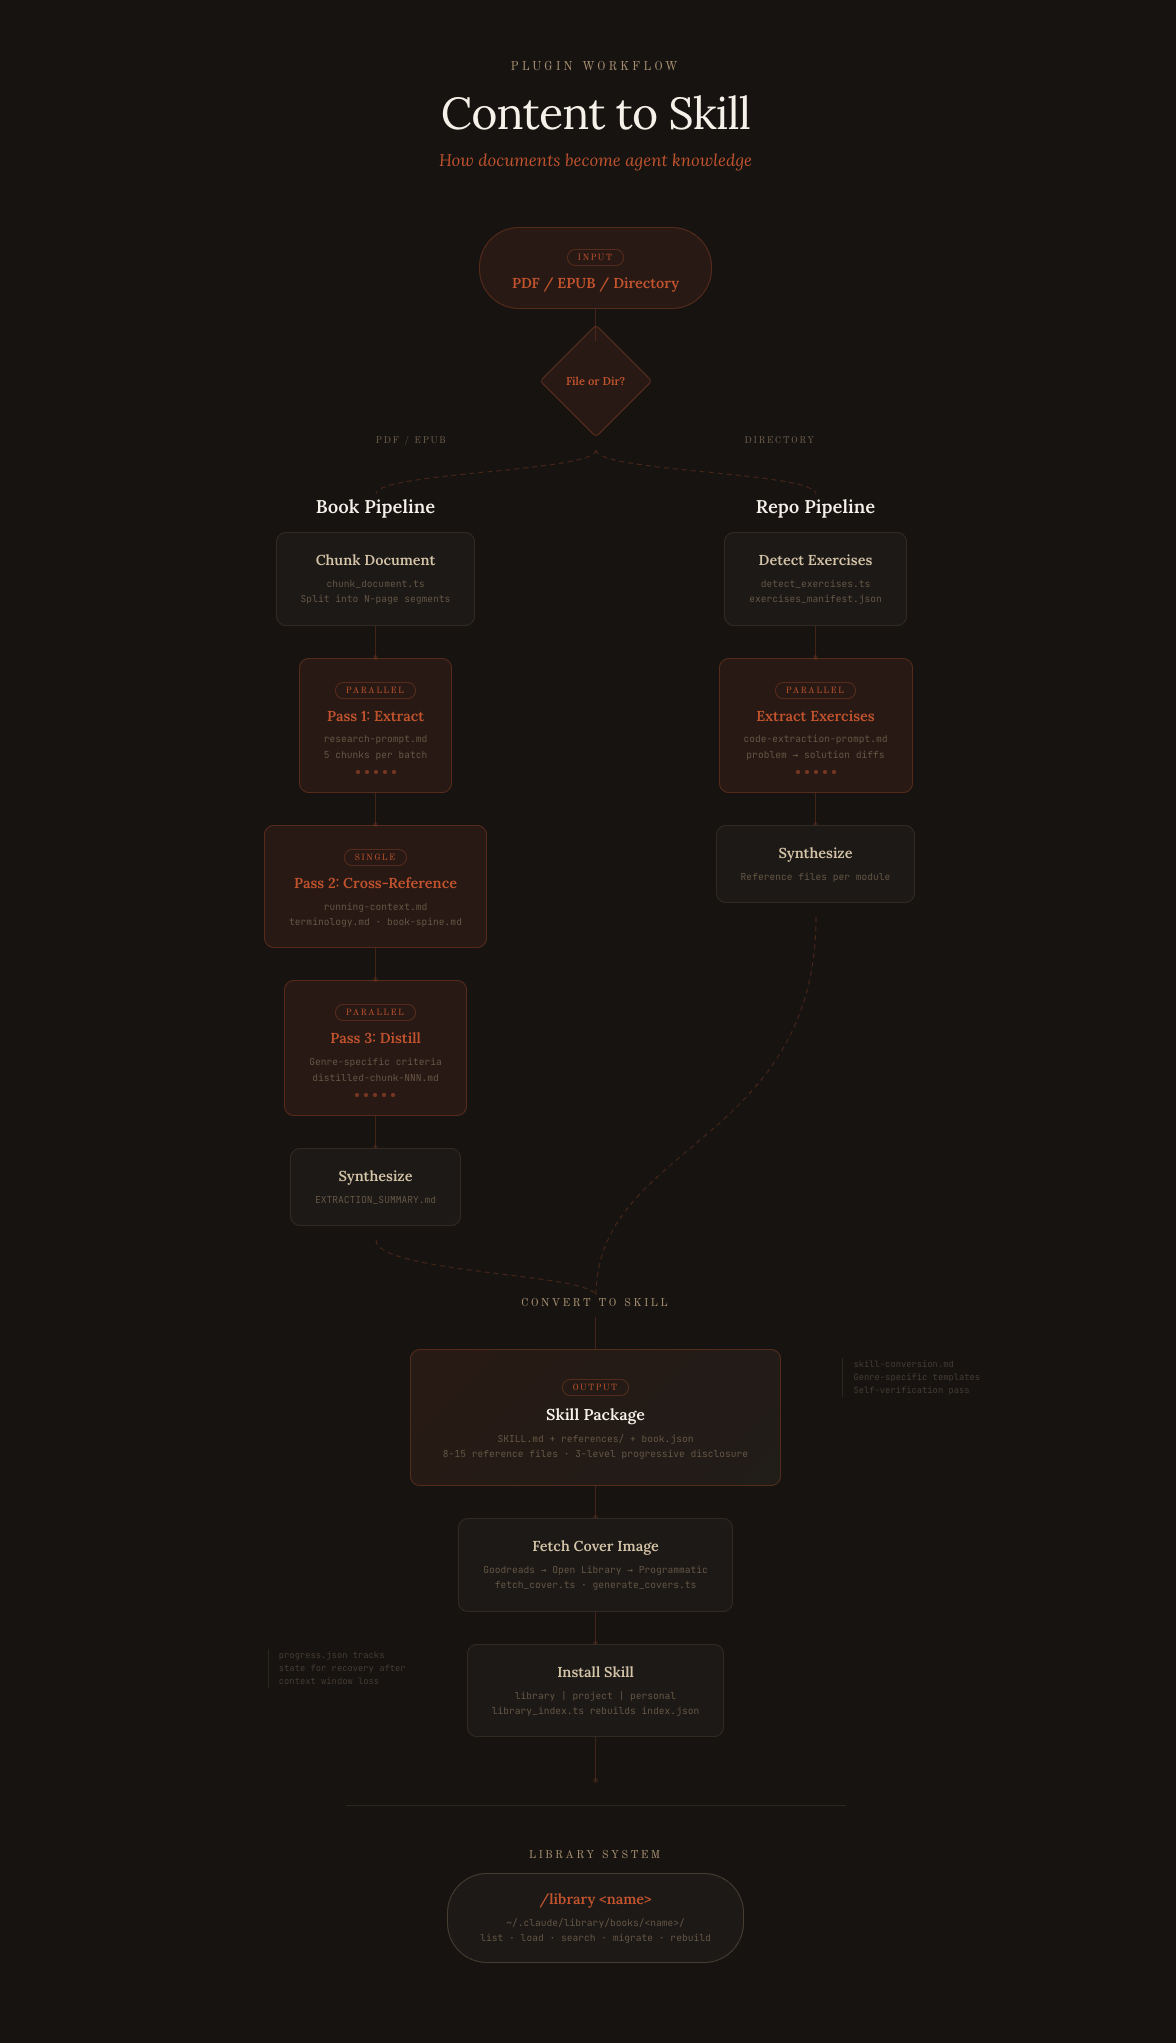
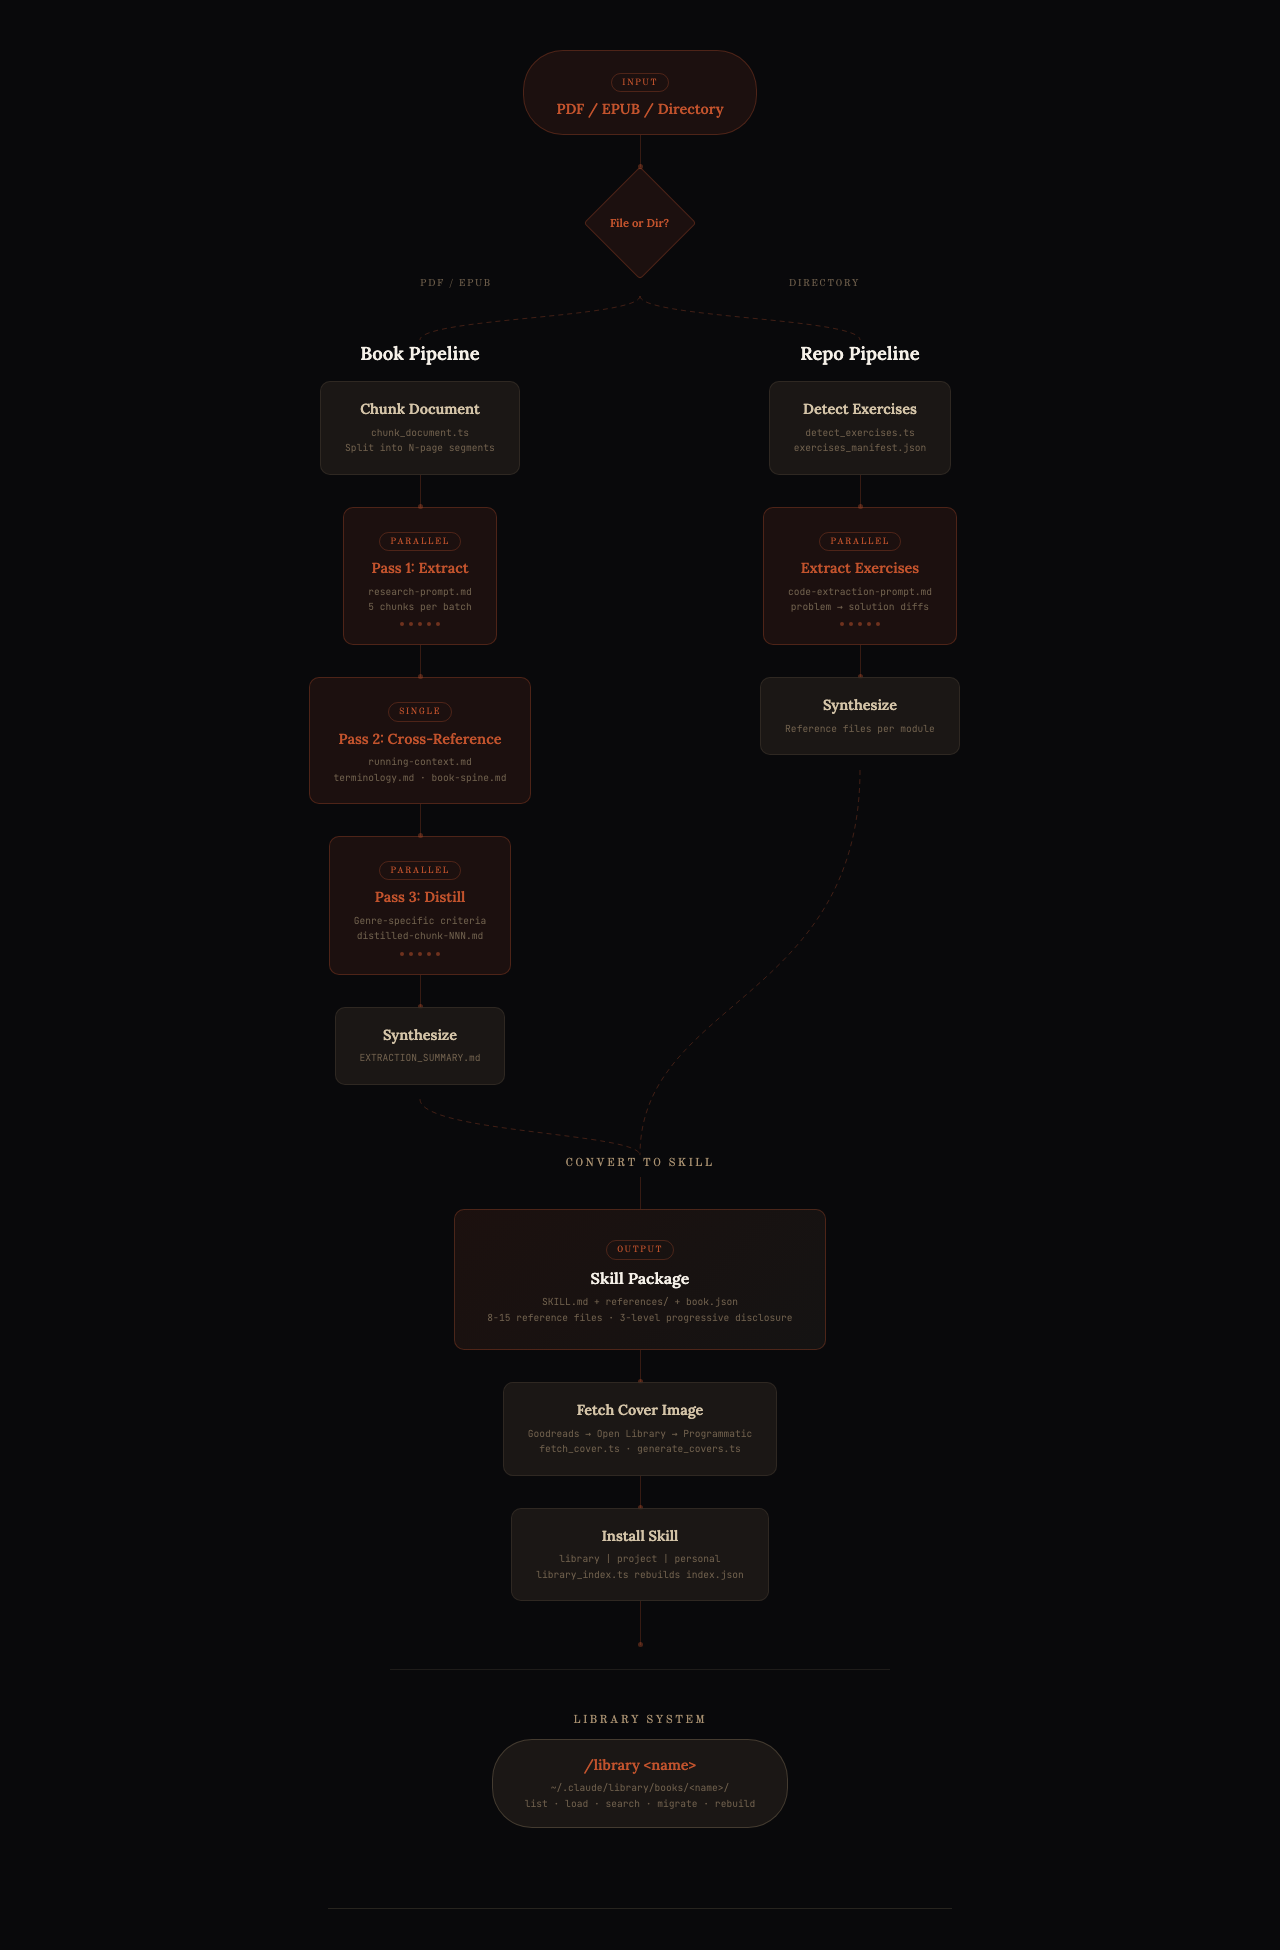
Update README with dual-pipeline workflow and new CLI flags
Expand README to document both Book and Repo pipelines with their distinct steps. Add new CLI flags for citation style, genre, category, and pattern detection. Update workflow diagram screenshot to reflect the dual-pipeline architecture.

diff --git a/README.md b/README.md
@@ -55,15 +55,19 @@ npm run dev
 
 ### `/content-to-skill`
 
-Convert a PDF or EPUB into an Agent Skill.
+Convert a PDF, EPUB, or code exercise directory into an Agent Skill.
 
 | Flag | Default | Description |
 |------|---------|-------------|
-| `<path>` | *(required)* | Path to the PDF or EPUB file |
+| `<path>` | *(required)* | Path to a PDF/EPUB file or a directory of code exercises |
 | `--name <name>` | *(prompt)* | Kebab-case skill name |
 | `--install <location>` | `library` | `library`, `project`, or `personal` |
 | `--on-conflict <action>` | `overwrite` | `overwrite` or `cancel` |
-| `--pages <n>` | `5` | Pages/sections per chunk |
+| `--pages <n>` | `5` | Pages/sections per chunk (book pipeline only) |
+| `--citation <style>` | *(prompt)* | `chapter` or `page` (book pipeline only) |
+| `--genre <type>` | *(prompt)* | `prescriptive`, `literary-fiction`, `philosophy`, `poetry-drama`, or `religious` (book pipeline only) |
+| `--category <category>` | *(prompt)* | Category for library (e.g., `business`, `technical`) |
+| `--pattern <name>` | *(auto-detect)* | Exercise detector pattern (repo pipeline only) |
 
 ### `/library`
 
@@ -81,10 +85,27 @@ Browse and load book knowledge.
 
 ![Workflow Diagram](site/public/workflow-diagram.png)
 
-1. **Chunk** -- Splits the document into manageable sections
-2. **Extract** -- Parallel subagents extract knowledge from each chunk
-3. **Synthesize** -- Cross-references extractions into a unified knowledge map
-4. **Convert** -- Produces a structured skill with progressive disclosure and 8-15 reference files
+Two pipelines depending on input type:
+
+**Book Pipeline** (PDF / EPUB):
+
+1. **Configure** — Choose citation style and genre. Extraction adapts to the book's form
+2. **Chunk** — Splits the document into sections sized for processing
+3. **Extract** — Parallel subagents extract knowledge from each chunk
+4. **Cross-Reference** — A dedicated pass builds a unified knowledge map, terminology index, and chapter spine
+5. **Distill** — Each chunk is re-evaluated against the whole book. Surface observations are cut, causal chains deepened
+6. **Synthesize** — Produces EXTRACTION_SUMMARY.md with metadata, core thesis, and cross-reference map
+7. **Convert** — Structured skill with 3-level progressive disclosure and 8-15 reference files
+8. **Cover** — Fetches real cover art from Goodreads and Open Library, or generates one
+9. **Install** — Adds to your personal library, project, or personal skills
+
+**Repo Pipeline** (code exercise directory):
+
+1. **Detect** — Finds exercises and builds a manifest
+2. **Extract** — Parallel subagents extract teaching content from problem/solution pairs
+3. **Synthesize** — Creates reference files per module plus cross-cutting pattern files
+4. **Cover** — Generates a programmatic cover
+5. **Install** — Same install options as the book pipeline
 
 ## Resource Usage
 
